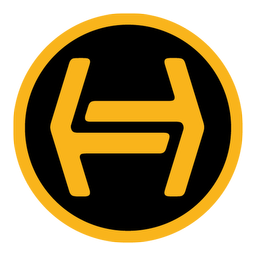
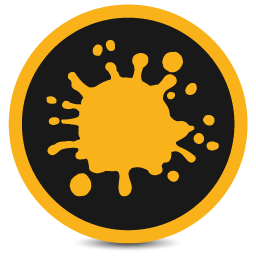
Changed basic naming and hiero functioning to Mari

diff --git a/engine.py b/engine.py
@@ -1,115 +1,30 @@
-# Copyright (c) 2013 Shotgun Software Inc.
-# 
-# CONFIDENTIAL AND PROPRIETARY
-# 
-# This work is provided "AS IS" and subject to the Shotgun Pipeline Toolkit 
-# Source Code License included in this distribution package. See LICENSE.
-# By accessing, using, copying or modifying this work you indicate your 
-# agreement to the Shotgun Pipeline Toolkit Source Code License. All rights 
-# not expressly granted therein are reserved by Shotgun Software Inc.
-
-import hiero.core
+import mari.utils
 
 import tank
 
-
-class HieroEngine(tank.platform.Engine):
-    """
-    Engine for Hiero
-    """
-    
-    # define the different areas where menu events can occur
-    (HIERO_BIN_AREA, HIERO_SPREADSHEET_AREA, HIERO_TIMELINE_AREA) = range(3)
+class MariEngine(tank.platform.Engine):
     
     def init_engine(self):
-
-        # tracking where a menu click took place.
-        self._last_clicked_selection = []
-        self._last_clicked_area = None
-        
         self.log_debug("%s: Initializing..." % self)
-
-
-    def get_menu_selection(self):
-        """
-        Returns the list of hiero objects selected in the most recent menu click.
-        This list may contain items of various types. To see exactly what is being 
-        returned by which methods, turn on debug logging - this will print out details
-        of what is going on.
-        
-        Examples of types that are being returned are:
-        
-        Selecting a project in the bin view:
-        http://docs.thefoundry.co.uk/hiero/10/hieropythondevguide/api/api_core.html#hiero.core.Bin
-        
-        Selecting an item in a bin view:
-        http://docs.thefoundry.co.uk/hiero/10/hieropythondevguide/api/api_core.html#hiero.core.BinItem
-        
-        Selecting a track:
-        http://docs.thefoundry.co.uk/hiero/10/hieropythondevguide/api/api_core.html#hiero.core.TrackItem
-        """
-        return self._last_clicked_selection
-        
-    def get_menu_category(self):
-        """
-        Returns the UI area where the last menu click took place.
-        
-        Returns one of the following constants:
-        
-        - HieroEngine.HIERO_BIN_AREA
-        - HieroEngine.HIERO_SPREADSHEET_AREA
-        - HieroEngine.HIERO_TIMELINE_AREA
-        - None for unknown or undefined
-        """
-        return self._last_clicked_area
     
     def post_app_init(self):
         # create menus
-        tk_hiero = self.import_module("tk_hiero")
-        self._menu_generator = tk_hiero.MenuGenerator(self)
-        self._menu_generator.create_menu()
-
-        def set_project_root(event):
-            """Ensure any new projects get the project root or default startup 
-            projects get the project root set
-            """ 
-            for p in hiero.core.projects():
-                if not p.projectRoot():
-                    self.log_debug("Setting projectRoot on %s to: %s" % (p.name(), self.tank.project_path))
-                    p.setProjectRoot(self.tank.project_path)
-        hiero.core.events.registerInterest('kAfterNewProjectCreated', set_project_root)
+        tk_mari = self.import_module("tk_mari")
+        #self._menu_generator = tk_mari.MenuGenerator(self)
+        #self._menu_generator.create_menu()
 
     def destroy_engine(self):
         self.log_debug("%s: Destroying..." % self)
         self._menu_generator.destroy_menu()
 
-    # Logging
-    ############################################################################
     def log_debug(self, msg):
-        if self.get_setting("debug_logging", False):
-            # ensure the debug log channel is on
-            # we do this lazily to reduce amount of noise from hiero
-            hiero.core.log.setLogLevel(hiero.core.log.kDebug)
-            hiero.core.log.debug("Shotgun: %s" % msg)
+        pass
 
     def log_info(self, msg):
-        # 
-        # NOTE! By default, info logging is turned OFF in hiero
-        # meaning that no info messages (nor warning, since they use info to output too)
-        # will be output in the console.
-        # 
-        # in order to have these emitted, we would need to turn them on by doing a 
-        # hiero.core.log.setLogLevel(hiero.core.log.kInfo)
-        #
-        # However this has call been omitted on purpose because too much output 
-        # from hiero to stdout/stderr is causing problems with the browser plugin
-        # causing it to hang or crash. By keeping the info and warning logging off
-        # we are avoiding such hangs and working around this known issue.
-        hiero.core.log.info("Shotgun: %s" % msg)
+        pass
 
     def log_warning(self, msg):
-        # please see note on log_info()
-        hiero.core.log.info("Shotgun Warning: %s" % msg)
+        pass
 
     def log_error(self, msg):
-        hiero.core.log.error("Shotgun: %s" % msg)
+        pass

diff --git a/python/__init__.py b/python/__init__.py
@@ -1,11 +1,1 @@
-# Copyright (c) 2013 Shotgun Software Inc.
-# 
-# CONFIDENTIAL AND PROPRIETARY
-# 
-# This work is provided "AS IS" and subject to the Shotgun Pipeline Toolkit 
-# Source Code License included in this distribution package. See LICENSE.
-# By accessing, using, copying or modifying this work you indicate your 
-# agreement to the Shotgun Pipeline Toolkit Source Code License. All rights 
-# not expressly granted therein are reserved by Shotgun Software Inc.
-
-from . import tk_hiero
+from . import tk_mari

diff --git a/python/tk_mari/__init__.py b/python/tk_mari/__init__.py
@@ -1,0 +1,1 @@
+from .menu_generation import MenuGenerator
